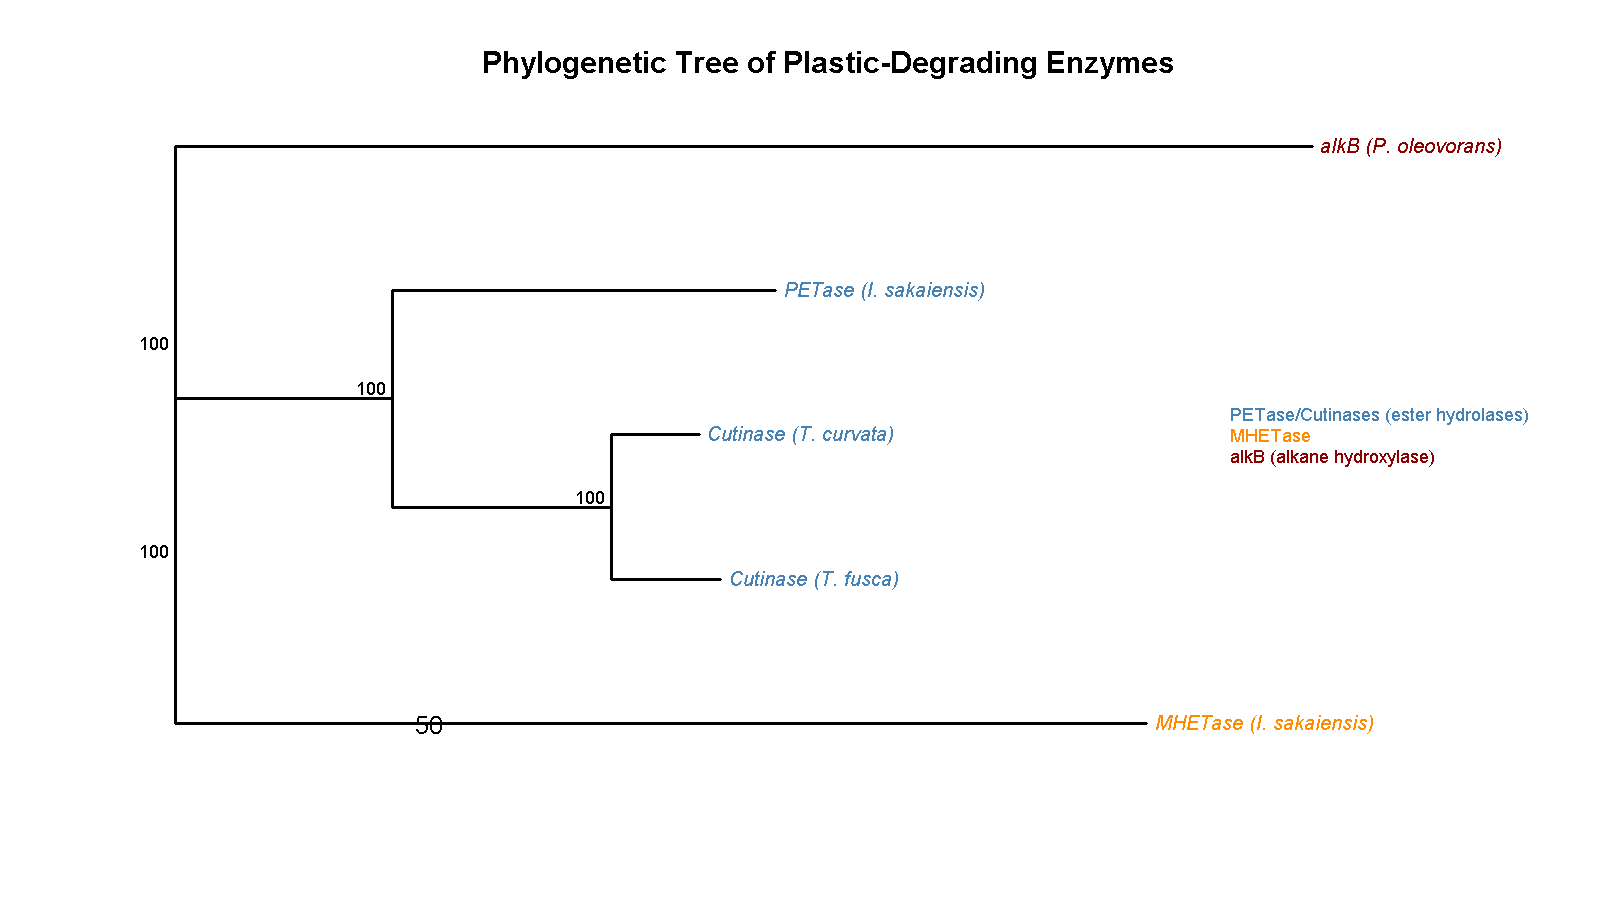
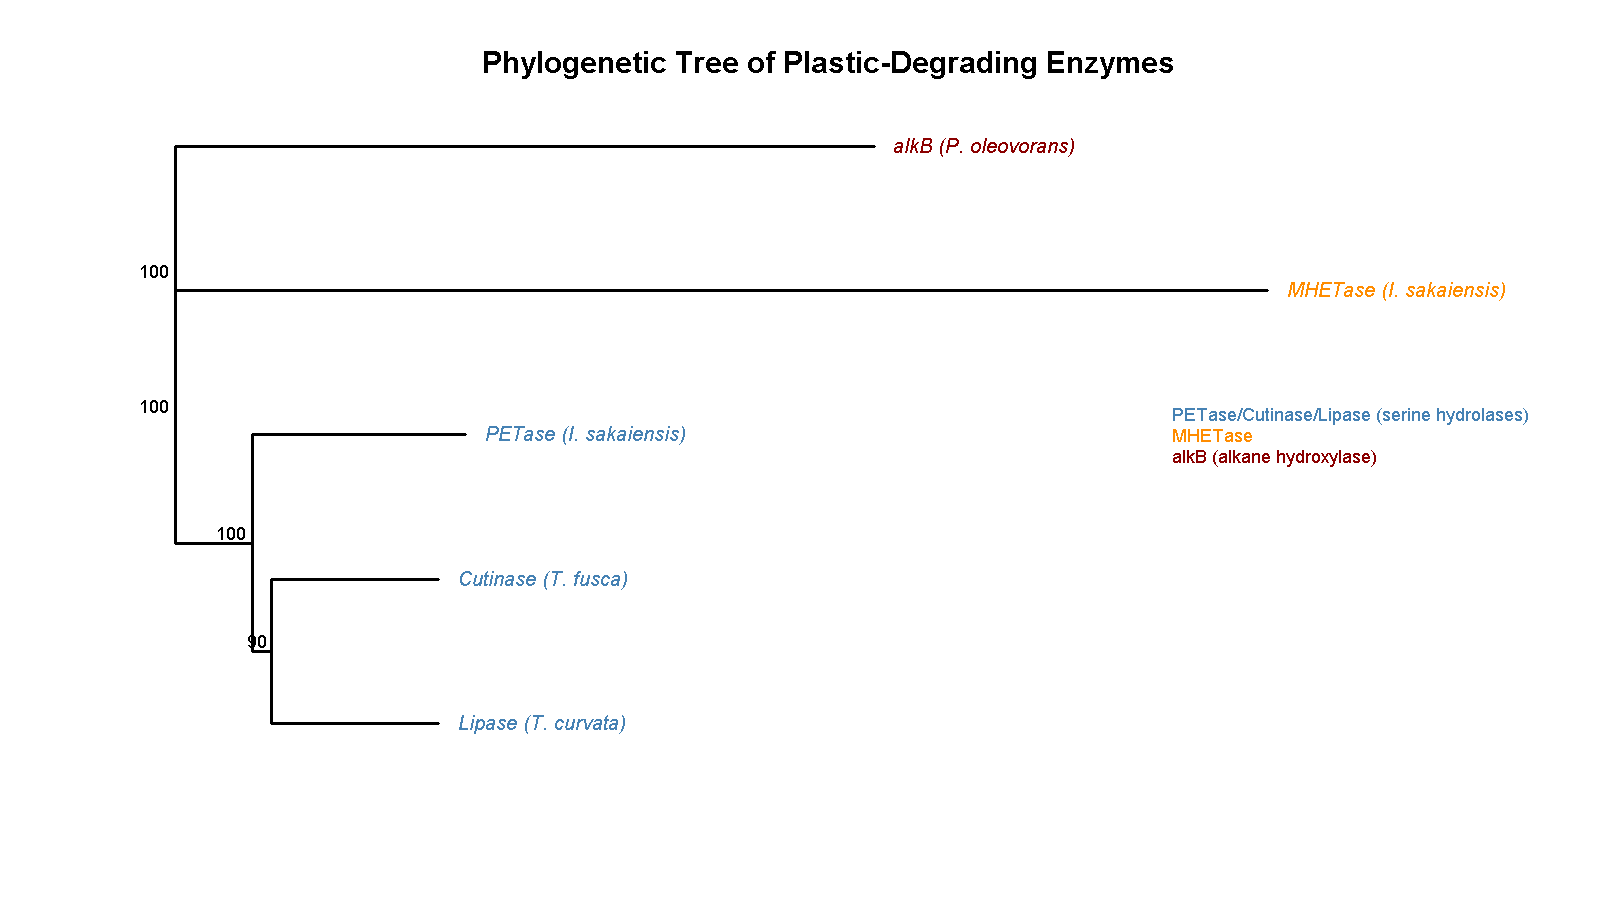
update phylo_tree.R with correct accessions and clean labels

diff --git a/scripts/fetch_sequences.py b/scripts/fetch_sequences.py
@@ -2,15 +2,15 @@
 # Entrez accesses NCBI database, SeqIO parses the sequence data
 from Bio import Entrez, SeqIO
 
-# Tell NCBI who you are - required by NCBI
+# NCBI requires an email to identify who is accessing their database
 Entrez.email = "[email redacted]"
 
 # List of NCBI accession numbers for the sequences we want to fetch
 enzymes = {
     "PETase_Ideonella_sakaiensis": "GAP38373.1",
-    "MHETase_Ideonella_sakaiensis": "GAP38374.1",
-    "Cutinase_Thermobifida_fusca": "AAZ54921.1",
-    "Cutinase_Thermonospora_curvata": "ADV92528.1",
+    "MHETase_Ideonella_sakaiensis": "GAP38911.1",
+    "Cutinase_Thermobifida_fusca": "ADV92528.1",
+    "Lipase_Thermonospora_curvata": "CDN67545.1",
     "alkB_Pseudomonas_oleovorans": "CAB51047.1"
 }
 
@@ -32,9 +32,9 @@ with open(output_file, "w") as out_handle:
 
         # Read sequence and rename to know which enzyme it is
         record = SeqIO.read(handle, "fasta")
-        record.id = enzyme_name  
-        record.description = ""  # Clear the description for cleaner FASTA output
-        SeqIO.write(record, out_handle, "fasta")  # Write to output file
+        record.id = enzyme_name
+        record.description = ""
+        SeqIO.write(record, out_handle, "fasta")
         handle.close()
 
 print(f"All sequences downloaded and saved to {output_file}.")